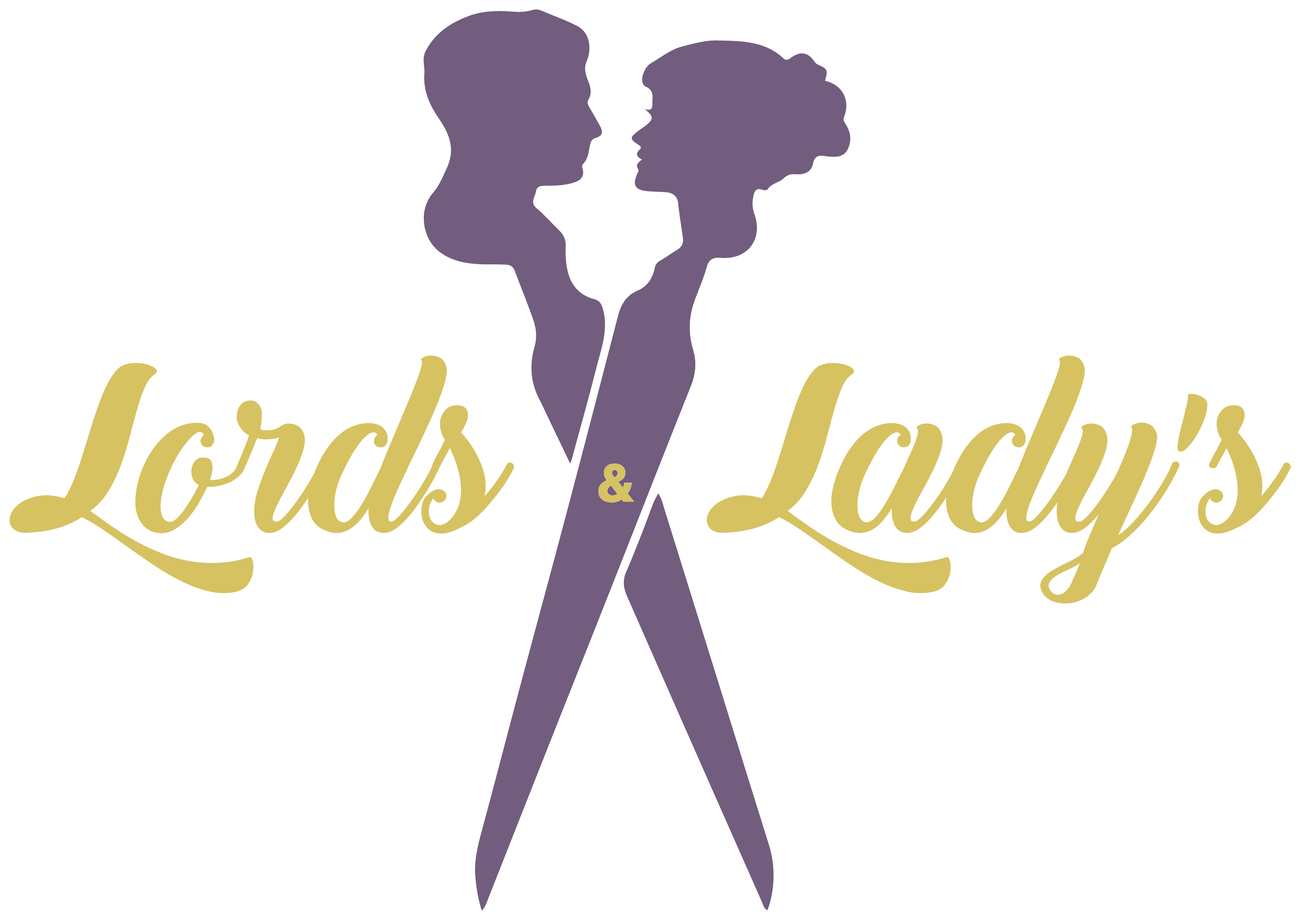
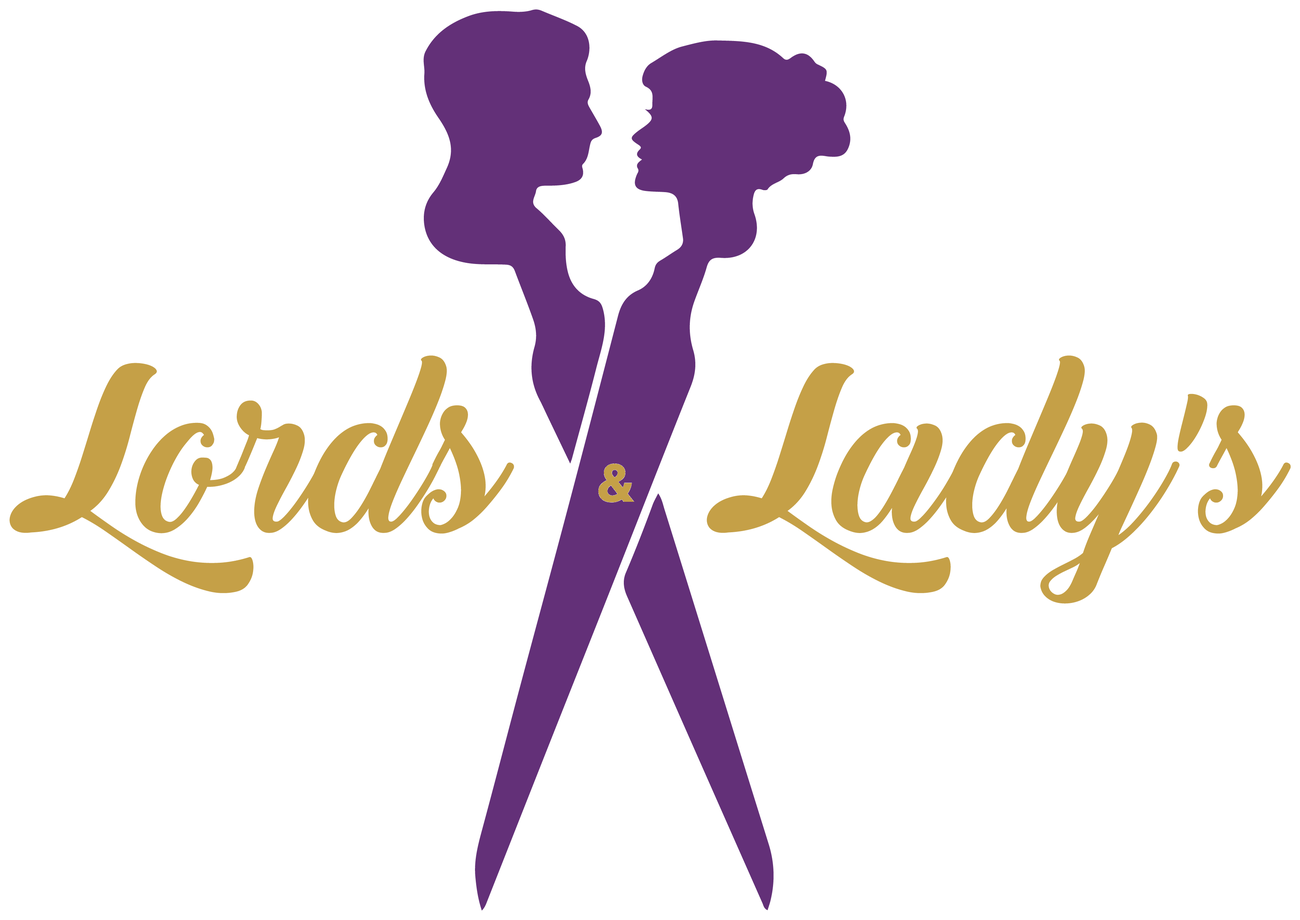
Refine Lords and Lady's gold and purple palette

Changed region(s): [[0.3125, 0.0, 1.0, 0.9915], [0.0, 0.3718, 0.4062, 0.6507]]

diff --git a/Trial350k/styles.css b/Trial350k/styles.css
@@ -1,4 +1,4 @@
-:root{--brand-yellow:#ffff00;--brand-red:#c91d0e;--brand-black:#080808;--surface:#fffdf1;--surface-soft:#fff5b8;--surface-dark:#242424;--text-primary:#181818;--text-secondary:#625e55;--border:#e9e2d0;--wine:var(--brand-red);--wine-dark:#a8180c;--cream:var(--surface);--ink:var(--text-primary);--muted:var(--text-secondary);--gold:#d0b900;--line:var(--border);--serif:Georgia,'Times New Roman',serif}*{box-sizing:border-box}html{scroll-behavior:smooth;scroll-padding-top:95px}body{margin:0;background:var(--cream);color:var(--ink);font-family:Arial,Helvetica,sans-serif;font-size:14px;line-height:1.65}body.modal-open{overflow:hidden}a{color:inherit;text-decoration:none}button,input,textarea{font:inherit}button,a,input,textarea{-webkit-tap-highlight-color:transparent}button{cursor:pointer}button{color:inherit}button:focus-visible,a:focus-visible,input:focus-visible,textarea:focus-visible{outline:2px solid var(--gold);outline-offset:5px}img{display:block;width:100%;height:100%;object-fit:cover}figure{margin:0}h1,h2,h3,h4,p{margin-top:0}h1,h2,h3{font-family:var(--serif);font-weight:400;line-height:1.06;letter-spacing:-.055em}h2{font-size:clamp(40px,4.6vw,70px);color:var(--wine);margin-bottom:30px}em{font-weight:400}h3{font-size:34px;letter-spacing:-.04em}h4{font-size:16px;font-weight:500;margin-bottom:8px}p{color:var(--muted)}.eyebrow{font-size:10px;letter-spacing:2.1px;font-weight:600;color:var(--wine);margin-bottom:28px}.header{height:103px;margin:0 5.2%;display:flex;align-items:center;justify-content:space-between;border-bottom:1px solid var(--line);gap:32px}.wordmark{color:var(--wine);font-family:var(--serif);font-size:35px;letter-spacing:4px;line-height:1;text-align:center;display:inline-flex;flex-direction:column}.wordmark span{font-family:Arial,sans-serif;font-size:8px;letter-spacing:3px;margin-top:9px}.header nav{display:flex;gap:30px;font-size:11px}.header nav a{position:relative}.header nav a:after{content:'';position:absolute;bottom:-5px;left:0;width:0;height:1px;background:var(--wine);transition:width .25s}.header nav a:hover:after{width:100%}.header-book{font-size:11px;border-bottom:1px solid var(--wine);padding:12px 0;color:var(--wine)}.header-book span{margin-left:25px}.menu-toggle{display:none}.skip{position:fixed;top:-100px;background:var(--wine);color:white;padding:15px;z-index:100}.skip:focus{top:0}.hero{padding:25px 5.2% 0}.hero-eyebrow{display:flex;justify-content:space-between;font-size:9px;letter-spacing:1.8px;color:var(--wine)}.hero-composition{position:relative;min-height:660px;margin-top:33px;display:grid;grid-template-columns:49% 47% 4%;align-items:start}.hero-copy{position:relative;z-index:2;padding-top:33px;pointer-events:none}.hero-copy a{pointer-events:auto}.hero h1{font-size:clamp(95px,11.5vw,174px);color:var(--wine);line-height:.89;margin:0 -130px 32px 0;letter-spacing:-.065em}.hero h1 em{white-space:nowrap}.hero-copy>p{font-size:14px;line-height:1.8;margin:0 0 26px}.button{display:inline-flex;align-items:center;justify-content:space-between;gap:35px;border:1px solid var(--wine);background:var(--wine);color:var(--cream);padding:17px 25px;font-size:11px;letter-spacing:.3px;transition:background .25s,transform .25s}.button:hover{background:var(--wine-dark);transform:translateY(-2px)}.button span{font-size:19px;line-height:1;transition:transform .25s}.button:hover span{transform:translate(2px,-2px)}.hero-photo{height:610px;position:relative;overflow:hidden;margin-left:12px}.hero-photo img{object-position:center 30%;animation:photo-in 1.3s ease both}.hero-photo:after{content:'';position:absolute;inset:0;background:linear-gradient(0deg,#24140c55,transparent 35%);pointer-events:none}.hero-photo figcaption{position:absolute;bottom:25px;left:28px;color:white;font-size:9px;letter-spacing:2px;z-index:1}.hero-note{display:flex;align-items:center;gap:18px;margin-top:53px;color:var(--wine);font-size:8px;letter-spacing:1.6px;line-height:1.8}.tiny-star{font-size:35px;color:var(--gold)}.hero-side{writing-mode:vertical-rl;justify-self:end;margin-top:50px;font-size:8px;letter-spacing:2px;color:var(--wine)}.hero-edition{position:absolute;bottom:16px;right:4%;font-size:8px;letter-spacing:1.3px;color:var(--muted)}.hero-bottom{display:flex;justify-content:space-between;border-top:1px solid var(--line);padding:22px 0;color:var(--muted);font-size:11px}.hero-bottom a{font-size:8px;letter-spacing:1.6px;color:var(--wine)}.hero-bottom a span{margin-left:30px;font-size:17px}.section{padding:105px 7.5%}.intro{display:grid;grid-template-columns:25% 75%;padding-top:110px;padding-bottom:115px}.intro>.eyebrow{padding-top:10px}.intro h2{font-size:clamp(35px,4.2vw,64px)}.intro-bottom{display:grid;grid-template-columns:60px 1fr auto;gap:30px;align-items:start}.intro-bottom p{max-width:470px;font-size:13px;margin:0}.star{font-size:48px;line-height:1.2;color:var(--gold)}.text-link{display:inline-flex;align-items:center;gap:22px;font-size:11px;color:var(--wine);border:0;border-bottom:1px solid var(--wine);padding:0 0 8px;background:none;align-self:start;white-space:nowrap}.text-link:hover{color:var(--muted)}.section-heading{display:flex;justify-content:space-between;align-items:end;margin-bottom:40px;gap:30px}.section-heading h2{margin-bottom:0}.section-heading>p{font-size:12px;max-width:300px}.services{background:#eee8dd;padding-top:85px;padding-bottom:55px}.category-tabs{display:flex;justify-content:space-between;border-bottom:1px solid #ccbfaf;margin:50px 0 38px;gap:18px}.category-tabs a{border:0;background:none;padding:16px 0;font-size:12px;white-space:nowrap;color:var(--muted);position:relative}.category-tabs a[aria-current="location"]{color:var(--wine)}.category-tabs a[aria-current="location"]:after{content:'';position:absolute;bottom:-1px;left:0;right:0;height:2px;background:var(--wine)}.service-category{display:grid;grid-template-columns:37% 1fr;gap:8%;animation:fade-in .5s}.service-photo{height:480px;position:relative;overflow:hidden}.service-photo img{transition:transform .8s}.service-photo:hover img{transform:scale(1.035)}.service-photo figcaption{position:absolute;bottom:20px;left:20px;color:white;background:#351a25a6;padding:6px 10px;font-size:8px;letter-spacing:1.5px}.service-list{padding-top:15px}.service-list h3{color:var(--wine);margin-bottom:15px}.service-list>p{font-size:12px;max-width:430px;margin-bottom:22px}.service-row{padding:23px 0;border-top:1px solid #ccbfaf;display:grid;grid-template-columns:1fr auto;gap:20px}.service-row p{font-size:11px;max-width:290px;margin-bottom:6px}.service-row small{font-size:9px;color:var(--muted)}.service-row>div:last-child{text-align:right}.service-row strong{font-size:12px;font-weight:500;display:block;color:var(--wine)}.service-book{display:block;font-size:9px;margin-top:16px;color:var(--wine);text-decoration:underline;text-underline-offset:5px}.service-book span{margin-left:12px}.price-note{margin:25px 0 0;font-size:10px}.story{display:grid;grid-template-columns:50% 50%;margin:115px 0 70px}.story-photo{height:760px;position:relative}.story-photo img{object-position:center}.story-photo>span{position:absolute;bottom:30px;left:40px;color:white;font-size:9px;letter-spacing:2px}.story-copy{padding:35px 15% 0 13%}.story-copy h2{font-size:clamp(40px,4.3vw,65px)}.story-copy>p:not(.eyebrow){font-size:12px}.values{margin:32px 0}.values>div{display:flex;gap:25px;border-top:1px solid var(--line);padding:17px 0 0}.values>div>span{font-size:9px;color:var(--gold)}.values p{font-size:10px}.values strong{display:block;font-size:12px;color:var(--wine);font-weight:500;margin-bottom:4px}.gallery{padding-top:55px}.gallery-layout{display:grid;grid-template-columns:1.2fr .8fr 1fr;gap:40px 35px;align-items:start;margin-top:60px}.gallery-item{padding:0;border:0;background:transparent;text-align:left;min-width:0}.gallery-item>div{position:relative;overflow:hidden;height:310px}.gallery-item img{transition:transform .7s,filter .7s}.gallery-item:hover img{transform:scale(1.045);filter:saturate(.85)}.gallery-item-0{grid-column:1/3;grid-row:1/3}.gallery-item-0>div{height:715px}.gallery-item-1{padding-top:65px}.gallery-item-2>div{height:265px}.gallery-item-3{padding-top:30px}.gallery-item-3>div{height:300px}.gallery-item-4>div{height:390px}.gallery-item-5{padding-top:60px}.gallery-item-5>div{height:280px}.gallery-caption{display:flex;justify-content:space-between;gap:10px;margin-top:12px;font-size:11px;flex-wrap:wrap}.gallery-caption small{font-size:8px;color:var(--muted);text-transform:uppercase;letter-spacing:1px}.gallery-expand{position:absolute;right:14px;bottom:14px;background:var(--cream);color:var(--wine);width:34px;height:34px;display:grid;place-items:center;opacity:0;transition:opacity .2s}.gallery-item:hover .gallery-expand,.gallery-item:focus-visible .gallery-expand{opacity:1}.testimonials{border-top:1px solid var(--line);text-align:center;padding-top:65px;padding-bottom:65px}.quote-mark{font-family:var(--serif);color:var(--gold);font-size:80px;height:70px;line-height:1}blockquote{font-family:var(--serif);font-size:clamp(26px,3vw,42px);line-height:1.3;letter-spacing:-1px;color:var(--wine);max-width:850px;margin:10px auto 25px}#quote>p{font-size:11px;color:var(--wine)}#quote>p span{display:block;font-size:9px;color:var(--muted);margin-top:4px}.quote-controls{display:flex;align-items:center;justify-content:center;gap:24px;font-size:9px;margin-top:24px}.quote-controls button{border:1px solid var(--line);border-radius:50%;width:36px;height:36px;background:none}.quote-controls button:hover{background:var(--wine);color:white}.invitation{display:grid;grid-template-columns:65% 35%;background:var(--wine);color:var(--cream);min-height:530px}.invitation>div{padding:75px 12%}.invitation h2{color:var(--cream);font-size:clamp(55px,6vw,88px)}.invitation .eyebrow{color:#d1bd9c}.invitation .button{background:var(--cream);color:var(--wine);margin-bottom:24px}.invitation p:last-child{color:#d9c9c9;font-size:11px}.invitation-photo{max-height:590px}.contact{display:grid;grid-template-columns:60% 40%;gap:30px}.contact h2{font-size:50px}.contact p{font-size:12px}.contact-location{color:var(--wine);font-size:16px!important}.contact small{display:block;font-size:9px;color:var(--muted);max-width:340px;margin-top:18px}.contact-details{padding-top:38px}.contact-details>div{margin-bottom:36px}.contact-details .eyebrow{margin-bottom:12px}.contact-details .text-link{display:flex;width:max-content;margin-top:14px}footer{margin:0 5.2%;border-top:1px solid var(--line);padding:42px 0 25px;display:grid;grid-template-columns:1fr 2fr 1fr;align-items:center;gap:35px}footer .wordmark{justify-self:start;font-size:29px}footer>p{font-size:11px;margin:0}footer>div{display:flex;gap:20px;font-size:10px}footer small{font-size:8px;color:var(--muted)}footer small:last-child{grid-column:2/4;text-align:right}.will-reveal{opacity:0;transform:translateY(24px);transition:opacity .8s,transform .8s}.will-reveal.visible{opacity:1;transform:none}@keyframes photo-in{from{clip-path:inset(8% 0 0 0);transform:scale(1.035)}to{clip-path:inset(0);transform:scale(1)}}@keyframes fade-in{from{opacity:.5}to{opacity:1}}dialog{border:0;background:#23151af5;color:var(--cream);max-width:100vw;max-height:100dvh;width:100vw;height:100dvh;padding:65px 70px}dialog::backdrop{background:#23151a}dialog[open]{display:flex;align-items:center;justify-content:center}dialog figure{height:85%;max-width:85%;display:flex;flex-direction:column;align-items:center}dialog img{min-height:0;object-fit:contain}dialog figcaption{font-size:11px;padding-top:18px}dialog button{border:0;background:none;color:white;font-size:25px;padding:20px}.lightbox-close{position:absolute;right:25px;top:10px;font-size:13px}.booking-page{padding:65px 7.5% 90px;display:grid;grid-template-columns:34% 1fr;gap:9%;min-height:850px}.booking-heading>.text-link{margin-bottom:38px}.booking-heading h1{font-size:clamp(45px,5vw,70px);color:var(--wine);margin-bottom:22px}.booking-heading>p{font-size:12px}.booking-heading .eyebrow{margin-bottom:20px;font-size:8px}.booking-heading img{height:180px;margin-top:25px}.booking-summary{border-top:1px solid var(--line);margin-top:35px;padding-top:25px}.booking-summary strong{font-family:var(--serif);font-size:22px;font-weight:400;color:var(--wine)}.booking-summary p{font-size:11px}.booking-content{padding-top:5px;scroll-margin-top:20px}.progress{list-style:none;display:flex;justify-content:space-between;padding:0;margin:0 0 55px;gap:8px}.progress li{text-align:center;flex:1;color:var(--muted);position:relative}.progress li:after{content:'';position:absolute;top:15px;left:calc(50% + 19px);width:calc(100% - 28px);height:1px;background:var(--line)}.progress li:last-child:after{display:none}.progress li>span{width:30px;height:30px;border:1px solid var(--line);border-radius:50%;display:grid;place-items:center;margin:0 auto 8px;font-size:10px}.progress small{font-size:8px}.progress .current{color:var(--wine)}.progress .current>span,.progress .complete>span{background:var(--wine);border-color:var(--wine);color:var(--cream)}.step-content:focus{outline:0}.step-content h2{font-size:36px;letter-spacing:-1.5px;margin-bottom:20px}.step-content .eyebrow{font-size:9px;margin-bottom:15px}.step-content form>p{font-size:12px}.booking-options{display:grid;grid-template-columns:1fr 1fr;gap:12px;margin:30px 0}.booking-options label{display:flex;align-items:center;gap:12px;border:1px solid var(--line);padding:20px 16px;cursor:pointer;font-size:12px}.booking-options label>span:last-child{margin-left:auto}.booking-options label:has(input:checked),.time-options label:has(input:checked){background:#ebe1df;border-color:var(--wine);color:var(--wine)}input[type=radio],input[type=checkbox]{accent-color:var(--wine);flex-shrink:0}.service-options{grid-template-columns:1fr}.service-options strong{font-weight:500;display:block}.service-options small{display:block;color:var(--muted);font-size:10px;margin-top:6px}.service-options label>span:last-child{font-size:10px;min-width:85px;text-align:right}.field{display:block;font-size:11px;color:var(--wine);margin:22px 0}.field>span{color:var(--muted)}.field input,.field textarea{display:block;width:100%;border:1px solid var(--line);border-radius:0;background:transparent;color:var(--ink);padding:15px;margin-top:7px;min-height:50px}.field textarea{resize:vertical}.field input[type=date]{max-width:350px}.field-hint{margin-top:30px;line-height:2}.time-options{display:grid;grid-template-columns:repeat(4,1fr);gap:12px;margin:30px 0}.time-options label{border:1px solid var(--line);padding:14px 10px;display:flex;align-items:center;gap:9px;font-size:12px;cursor:pointer}.form-actions{display:flex;justify-content:space-between;align-items:center;border-top:1px solid var(--line);padding-top:25px;margin-top:30px}.form-actions .text-link{align-self:center}.booking-disclaimer{font-size:9px;line-height:1.8;margin-top:32px}.form-error{color:#a21c32!important}.review>div{border-top:1px solid var(--line);padding:22px 45px 16px 0;position:relative}.review>div>span{font-size:8px;letter-spacing:1.5px;display:block;color:var(--muted);margin-bottom:8px}.review strong{display:block;font-size:14px;font-weight:500}.review p{font-size:12px;margin:8px 0;overflow-wrap:anywhere}.review button{position:absolute;right:0;top:22px;border:0;border-bottom:1px solid var(--wine);background:none;font-size:10px;color:var(--wine)}.review-notes{white-space:pre-wrap}.consent{display:flex;align-items:start;gap:10px;font-size:11px;margin-top:25px}.confirmation-symbol{font-size:35px;color:var(--wine);margin-bottom:15px}.confirmation-actions{display:flex;align-items:start;flex-direction:column;gap:25px;margin-top:30px}
+:root{--brand-yellow:var(--brand-gold);--brand-red:var(--brand-purple);--brand-black:var(--brand-charcoal);--surface:var(--surface-light);--surface-soft:#efe7d6;--surface-dark:var(--brand-charcoal);--text-primary:var(--text-dark);--text-secondary:#625b62;--border:#e5ddd0;--wine:var(--brand-purple);--wine-dark:var(--brand-purple-dark);--cream:var(--surface-light);--ink:var(--text-dark);--muted:var(--text-secondary);--gold:var(--brand-gold);--line:var(--border);--serif:Georgia,'Times New Roman',serif}*{box-sizing:border-box}html{scroll-behavior:smooth;scroll-padding-top:95px}body{margin:0;background:var(--cream);color:var(--ink);font-family:Arial,Helvetica,sans-serif;font-size:14px;line-height:1.65}body.modal-open{overflow:hidden}a{color:inherit;text-decoration:none}button,input,textarea{font:inherit}button,a,input,textarea{-webkit-tap-highlight-color:transparent}button{cursor:pointer}button{color:inherit}button:focus-visible,a:focus-visible,input:focus-visible,textarea:focus-visible{outline:2px solid var(--gold);outline-offset:5px}img{display:block;width:100%;height:100%;object-fit:cover}figure{margin:0}h1,h2,h3,h4,p{margin-top:0}h1,h2,h3{font-family:var(--serif);font-weight:400;line-height:1.06;letter-spacing:-.055em}h2{font-size:clamp(40px,4.6vw,70px);color:var(--wine);margin-bottom:30px}em{font-weight:400}h3{font-size:34px;letter-spacing:-.04em}h4{font-size:16px;font-weight:500;margin-bottom:8px}p{color:var(--muted)}.eyebrow{font-size:10px;letter-spacing:2.1px;font-weight:600;color:var(--wine);margin-bottom:28px}.header{height:103px;margin:0 5.2%;display:flex;align-items:center;justify-content:space-between;border-bottom:1px solid var(--line);gap:32px}.wordmark{color:var(--wine);font-family:var(--serif);font-size:35px;letter-spacing:4px;line-height:1;text-align:center;display:inline-flex;flex-direction:column}.wordmark span{font-family:Arial,sans-serif;font-size:8px;letter-spacing:3px;margin-top:9px}.header nav{display:flex;gap:30px;font-size:11px}.header nav a{position:relative}.header nav a:after{content:'';position:absolute;bottom:-5px;left:0;width:0;height:1px;background:var(--wine);transition:width .25s}.header nav a:hover:after{width:100%}.header-book{font-size:11px;border-bottom:1px solid var(--wine);padding:12px 0;color:var(--wine)}.header-book span{margin-left:25px}.menu-toggle{display:none}.skip{position:fixed;top:-100px;background:var(--wine);color:white;padding:15px;z-index:100}.skip:focus{top:0}.hero{padding:25px 5.2% 0}.hero-eyebrow{display:flex;justify-content:space-between;font-size:9px;letter-spacing:1.8px;color:var(--wine)}.hero-composition{position:relative;min-height:660px;margin-top:33px;display:grid;grid-template-columns:49% 47% 4%;align-items:start}.hero-copy{position:relative;z-index:2;padding-top:33px;pointer-events:none}.hero-copy a{pointer-events:auto}.hero h1{font-size:clamp(95px,11.5vw,174px);color:var(--wine);line-height:.89;margin:0 -130px 32px 0;letter-spacing:-.065em}.hero h1 em{white-space:nowrap}.hero-copy>p{font-size:14px;line-height:1.8;margin:0 0 26px}.button{display:inline-flex;align-items:center;justify-content:space-between;gap:35px;border:1px solid var(--wine);background:var(--wine);color:var(--cream);padding:17px 25px;font-size:11px;letter-spacing:.3px;transition:background .25s,transform .25s}.button:hover{background:var(--wine-dark);transform:translateY(-2px)}.button span{font-size:19px;line-height:1;transition:transform .25s}.button:hover span{transform:translate(2px,-2px)}.hero-photo{height:610px;position:relative;overflow:hidden;margin-left:12px}.hero-photo img{object-position:center 30%;animation:photo-in 1.3s ease both}.hero-photo:after{content:'';position:absolute;inset:0;background:linear-gradient(0deg,#24140c55,transparent 35%);pointer-events:none}.hero-photo figcaption{position:absolute;bottom:25px;left:28px;color:white;font-size:9px;letter-spacing:2px;z-index:1}.hero-note{display:flex;align-items:center;gap:18px;margin-top:53px;color:var(--wine);font-size:8px;letter-spacing:1.6px;line-height:1.8}.tiny-star{font-size:35px;color:var(--gold)}.hero-side{writing-mode:vertical-rl;justify-self:end;margin-top:50px;font-size:8px;letter-spacing:2px;color:var(--wine)}.hero-edition{position:absolute;bottom:16px;right:4%;font-size:8px;letter-spacing:1.3px;color:var(--muted)}.hero-bottom{display:flex;justify-content:space-between;border-top:1px solid var(--line);padding:22px 0;color:var(--muted);font-size:11px}.hero-bottom a{font-size:8px;letter-spacing:1.6px;color:var(--wine)}.hero-bottom a span{margin-left:30px;font-size:17px}.section{padding:105px 7.5%}.intro{display:grid;grid-template-columns:25% 75%;padding-top:110px;padding-bottom:115px}.intro>.eyebrow{padding-top:10px}.intro h2{font-size:clamp(35px,4.2vw,64px)}.intro-bottom{display:grid;grid-template-columns:60px 1fr auto;gap:30px;align-items:start}.intro-bottom p{max-width:470px;font-size:13px;margin:0}.star{font-size:48px;line-height:1.2;color:var(--gold)}.text-link{display:inline-flex;align-items:center;gap:22px;font-size:11px;color:var(--wine);border:0;border-bottom:1px solid var(--wine);padding:0 0 8px;background:none;align-self:start;white-space:nowrap}.text-link:hover{color:var(--muted)}.section-heading{display:flex;justify-content:space-between;align-items:end;margin-bottom:40px;gap:30px}.section-heading h2{margin-bottom:0}.section-heading>p{font-size:12px;max-width:300px}.services{background:#eee8dd;padding-top:85px;padding-bottom:55px}.category-tabs{display:flex;justify-content:space-between;border-bottom:1px solid #ccbfaf;margin:50px 0 38px;gap:18px}.category-tabs a{border:0;background:none;padding:16px 0;font-size:12px;white-space:nowrap;color:var(--muted);position:relative}.category-tabs a[aria-current="location"]{color:var(--wine)}.category-tabs a[aria-current="location"]:after{content:'';position:absolute;bottom:-1px;left:0;right:0;height:2px;background:var(--wine)}.service-category{display:grid;grid-template-columns:37% 1fr;gap:8%;animation:fade-in .5s}.service-photo{height:480px;position:relative;overflow:hidden}.service-photo img{transition:transform .8s}.service-photo:hover img{transform:scale(1.035)}.service-photo figcaption{position:absolute;bottom:20px;left:20px;color:white;background:#351a25a6;padding:6px 10px;font-size:8px;letter-spacing:1.5px}.service-list{padding-top:15px}.service-list h3{color:var(--wine);margin-bottom:15px}.service-list>p{font-size:12px;max-width:430px;margin-bottom:22px}.service-row{padding:23px 0;border-top:1px solid #ccbfaf;display:grid;grid-template-columns:1fr auto;gap:20px}.service-row p{font-size:11px;max-width:290px;margin-bottom:6px}.service-row small{font-size:9px;color:var(--muted)}.service-row>div:last-child{text-align:right}.service-row strong{font-size:12px;font-weight:500;display:block;color:var(--wine)}.service-book{display:block;font-size:9px;margin-top:16px;color:var(--wine);text-decoration:underline;text-underline-offset:5px}.service-book span{margin-left:12px}.price-note{margin:25px 0 0;font-size:10px}.story{display:grid;grid-template-columns:50% 50%;margin:115px 0 70px}.story-photo{height:760px;position:relative}.story-photo img{object-position:center}.story-photo>span{position:absolute;bottom:30px;left:40px;color:white;font-size:9px;letter-spacing:2px}.story-copy{padding:35px 15% 0 13%}.story-copy h2{font-size:clamp(40px,4.3vw,65px)}.story-copy>p:not(.eyebrow){font-size:12px}.values{margin:32px 0}.values>div{display:flex;gap:25px;border-top:1px solid var(--line);padding:17px 0 0}.values>div>span{font-size:9px;color:var(--gold)}.values p{font-size:10px}.values strong{display:block;font-size:12px;color:var(--wine);font-weight:500;margin-bottom:4px}.gallery{padding-top:55px}.gallery-layout{display:grid;grid-template-columns:1.2fr .8fr 1fr;gap:40px 35px;align-items:start;margin-top:60px}.gallery-item{padding:0;border:0;background:transparent;text-align:left;min-width:0}.gallery-item>div{position:relative;overflow:hidden;height:310px}.gallery-item img{transition:transform .7s,filter .7s}.gallery-item:hover img{transform:scale(1.045);filter:saturate(.85)}.gallery-item-0{grid-column:1/3;grid-row:1/3}.gallery-item-0>div{height:715px}.gallery-item-1{padding-top:65px}.gallery-item-2>div{height:265px}.gallery-item-3{padding-top:30px}.gallery-item-3>div{height:300px}.gallery-item-4>div{height:390px}.gallery-item-5{padding-top:60px}.gallery-item-5>div{height:280px}.gallery-caption{display:flex;justify-content:space-between;gap:10px;margin-top:12px;font-size:11px;flex-wrap:wrap}.gallery-caption small{font-size:8px;color:var(--muted);text-transform:uppercase;letter-spacing:1px}.gallery-expand{position:absolute;right:14px;bottom:14px;background:var(--cream);color:var(--wine);width:34px;height:34px;display:grid;place-items:center;opacity:0;transition:opacity .2s}.gallery-item:hover .gallery-expand,.gallery-item:focus-visible .gallery-expand{opacity:1}.testimonials{border-top:1px solid var(--line);text-align:center;padding-top:65px;padding-bottom:65px}.quote-mark{font-family:var(--serif);color:var(--gold);font-size:80px;height:70px;line-height:1}blockquote{font-family:var(--serif);font-size:clamp(26px,3vw,42px);line-height:1.3;letter-spacing:-1px;color:var(--wine);max-width:850px;margin:10px auto 25px}#quote>p{font-size:11px;color:var(--wine)}#quote>p span{display:block;font-size:9px;color:var(--muted);margin-top:4px}.quote-controls{display:flex;align-items:center;justify-content:center;gap:24px;font-size:9px;margin-top:24px}.quote-controls button{border:1px solid var(--line);border-radius:50%;width:36px;height:36px;background:none}.quote-controls button:hover{background:var(--wine);color:white}.invitation{display:grid;grid-template-columns:65% 35%;background:var(--wine);color:var(--cream);min-height:530px}.invitation>div{padding:75px 12%}.invitation h2{color:var(--cream);font-size:clamp(55px,6vw,88px)}.invitation .eyebrow{color:#d1bd9c}.invitation .button{background:var(--cream);color:var(--wine);margin-bottom:24px}.invitation p:last-child{color:#d9c9c9;font-size:11px}.invitation-photo{max-height:590px}.contact{display:grid;grid-template-columns:60% 40%;gap:30px}.contact h2{font-size:50px}.contact p{font-size:12px}.contact-location{color:var(--wine);font-size:16px!important}.contact small{display:block;font-size:9px;color:var(--muted);max-width:340px;margin-top:18px}.contact-details{padding-top:38px}.contact-details>div{margin-bottom:36px}.contact-details .eyebrow{margin-bottom:12px}.contact-details .text-link{display:flex;width:max-content;margin-top:14px}footer{margin:0 5.2%;border-top:1px solid var(--line);padding:42px 0 25px;display:grid;grid-template-columns:1fr 2fr 1fr;align-items:center;gap:35px}footer .wordmark{justify-self:start;font-size:29px}footer>p{font-size:11px;margin:0}footer>div{display:flex;gap:20px;font-size:10px}footer small{font-size:8px;color:var(--muted)}footer small:last-child{grid-column:2/4;text-align:right}.will-reveal{opacity:0;transform:translateY(24px);transition:opacity .8s,transform .8s}.will-reveal.visible{opacity:1;transform:none}@keyframes photo-in{from{clip-path:inset(8% 0 0 0);transform:scale(1.035)}to{clip-path:inset(0);transform:scale(1)}}@keyframes fade-in{from{opacity:.5}to{opacity:1}}dialog{border:0;background:rgba(36,34,40,.97);color:var(--cream);max-width:100vw;max-height:100dvh;width:100vw;height:100dvh;padding:65px 70px}dialog::backdrop{background:#242228}dialog[open]{display:flex;align-items:center;justify-content:center}dialog figure{height:85%;max-width:85%;display:flex;flex-direction:column;align-items:center}dialog img{min-height:0;object-fit:contain}dialog figcaption{font-size:11px;padding-top:18px}dialog button{border:0;background:none;color:white;font-size:25px;padding:20px}.lightbox-close{position:absolute;right:25px;top:10px;font-size:13px}.booking-page{padding:65px 7.5% 90px;display:grid;grid-template-columns:34% 1fr;gap:9%;min-height:850px}.booking-heading>.text-link{margin-bottom:38px}.booking-heading h1{font-size:clamp(45px,5vw,70px);color:var(--wine);margin-bottom:22px}.booking-heading>p{font-size:12px}.booking-heading .eyebrow{margin-bottom:20px;font-size:8px}.booking-heading img{height:180px;margin-top:25px}.booking-summary{border-top:1px solid var(--line);margin-top:35px;padding-top:25px}.booking-summary strong{font-family:var(--serif);font-size:22px;font-weight:400;color:var(--wine)}.booking-summary p{font-size:11px}.booking-content{padding-top:5px;scroll-margin-top:20px}.progress{list-style:none;display:flex;justify-content:space-between;padding:0;margin:0 0 55px;gap:8px}.progress li{text-align:center;flex:1;color:var(--muted);position:relative}.progress li:after{content:'';position:absolute;top:15px;left:calc(50% + 19px);width:calc(100% - 28px);height:1px;background:var(--line)}.progress li:last-child:after{display:none}.progress li>span{width:30px;height:30px;border:1px solid var(--line);border-radius:50%;display:grid;place-items:center;margin:0 auto 8px;font-size:10px}.progress small{font-size:8px}.progress .current{color:var(--wine)}.progress .current>span,.progress .complete>span{background:var(--wine);border-color:var(--wine);color:var(--cream)}.step-content:focus{outline:0}.step-content h2{font-size:36px;letter-spacing:-1.5px;margin-bottom:20px}.step-content .eyebrow{font-size:9px;margin-bottom:15px}.step-content form>p{font-size:12px}.booking-options{display:grid;grid-template-columns:1fr 1fr;gap:12px;margin:30px 0}.booking-options label{display:flex;align-items:center;gap:12px;border:1px solid var(--line);padding:20px 16px;cursor:pointer;font-size:12px}.booking-options label>span:last-child{margin-left:auto}.booking-options label:has(input:checked),.time-options label:has(input:checked){background:var(--surface-soft);border-color:var(--wine);color:var(--wine)}input[type=radio],input[type=checkbox]{accent-color:var(--wine);flex-shrink:0}.service-options{grid-template-columns:1fr}.service-options strong{font-weight:500;display:block}.service-options small{display:block;color:var(--muted);font-size:10px;margin-top:6px}.service-options label>span:last-child{font-size:10px;min-width:85px;text-align:right}.field{display:block;font-size:11px;color:var(--wine);margin:22px 0}.field>span{color:var(--muted)}.field input,.field textarea{display:block;width:100%;border:1px solid var(--line);border-radius:0;background:transparent;color:var(--ink);padding:15px;margin-top:7px;min-height:50px}.field textarea{resize:vertical}.field input[type=date]{max-width:350px}.field-hint{margin-top:30px;line-height:2}.time-options{display:grid;grid-template-columns:repeat(4,1fr);gap:12px;margin:30px 0}.time-options label{border:1px solid var(--line);padding:14px 10px;display:flex;align-items:center;gap:9px;font-size:12px;cursor:pointer}.form-actions{display:flex;justify-content:space-between;align-items:center;border-top:1px solid var(--line);padding-top:25px;margin-top:30px}.form-actions .text-link{align-self:center}.booking-disclaimer{font-size:9px;line-height:1.8;margin-top:32px}.form-error{color:#a21c32!important}.review>div{border-top:1px solid var(--line);padding:22px 45px 16px 0;position:relative}.review>div>span{font-size:8px;letter-spacing:1.5px;display:block;color:var(--muted);margin-bottom:8px}.review strong{display:block;font-size:14px;font-weight:500}.review p{font-size:12px;margin:8px 0;overflow-wrap:anywhere}.review button{position:absolute;right:0;top:22px;border:0;border-bottom:1px solid var(--wine);background:none;font-size:10px;color:var(--wine)}.review-notes{white-space:pre-wrap}.consent{display:flex;align-items:start;gap:10px;font-size:11px;margin-top:25px}.confirmation-symbol{font-size:35px;color:var(--wine);margin-bottom:15px}.confirmation-actions{display:flex;align-items:start;flex-direction:column;gap:25px;margin-top:30px}
 @media(min-width:1600px){body{max-width:1800px;margin:auto}.hero-composition{min-height:760px}.hero-photo{height:710px}}
 @media(max-width:1050px){.header nav{gap:18px}.hero-composition{min-height:580px}.hero-photo{height:540px}.hero h1{font-size:12vw}.hero-note{margin-top:35px}.intro{grid-template-columns:22% 78%}.intro-bottom{grid-template-columns:40px 1fr;gap:20px}.intro-bottom .text-link{grid-column:2}.story-copy{padding:20px 12% 0 10%}.story-photo{height:740px}.gallery-layout{gap:25px}.gallery-item-0>div{height:685px}.booking-page{gap:6%;grid-template-columns:31% 1fr}}
 @media(max-width:760px){html{scroll-padding-top:25px}.header{height:83px;margin:0 6%;gap:20px;position:relative;z-index:10}.wordmark{font-size:28px}.wordmark span{font-size:6px;letter-spacing:2.5px}.header-book{font-size:9px;margin-left:auto}.header-book span{margin-left:12px}.menu-toggle{display:flex;align-items:center;gap:6px;background:none;border:0;padding:10px 0;color:var(--wine);font-size:10px}.menu-toggle span{font-size:20px}.header nav{display:none;position:absolute;top:82px;left:-6.82%;right:-6.82%;padding:30px 7%;background:var(--cream);box-shadow:0 15px 20px #302a2910}.header.menu-open nav{display:flex;flex-direction:column;gap:24px;font-size:16px}.hero{padding:21px 6% 0}.hero-eyebrow{font-size:7px;letter-spacing:1.1px}.hero-eyebrow>span:last-child{font-size:6px}.hero-composition{display:block;margin-top:28px;min-height:0;padding-bottom:30px}.hero-copy{padding-top:0}.hero h1{font-size:clamp(76px,16.6vw,125px);line-height:.93;margin:0 0 25px;position:relative;z-index:2}.hero-copy>p{font-size:12px;line-height:1.7;width:50%;margin-bottom:20px}.hero-copy .button{font-size:10px;padding:15px 17px;gap:18px}.hero-photo{height:360px;width:67%;margin:30px 0 0 auto;position:relative}.hero-photo figcaption{font-size:7px;left:16px;bottom:18px}.hero-note{position:absolute;top:355px;left:0;width:27%;display:block;font-size:6px;letter-spacing:1px}.hero-note .tiny-star{display:block;font-size:35px;margin-bottom:15px}.hero-side{position:absolute;left:0;top:510px;font-size:6px;letter-spacing:1.5px;writing-mode:vertical-rl;margin:0}.hero-edition{bottom:10px;right:0;font-size:6px}.hero-bottom{font-size:9px;padding:18px 0}.hero-bottom a{font-size:7px;letter-spacing:1px}.hero-bottom a span{margin-left:10px}.section{padding:65px 7%}.intro{display:block}.intro>.eyebrow{margin-bottom:25px}.intro h2{font-size:38px}.intro-bottom{grid-template-columns:35px 1fr}.intro-bottom p{font-size:12px}.star{font-size:35px}.section-heading{display:block;margin-bottom:25px}.section-heading h2{font-size:45px}.section-heading>p{margin:25px 0 0;font-size:12px}.eyebrow{font-size:8px;letter-spacing:1.8px;margin-bottom:22px}.category-tabs{overflow:auto;justify-content:flex-start;gap:25px;margin:25px -8% 25px;padding:0 8%;scrollbar-width:thin}.category-tabs a{font-size:11px;padding:14px 0}.service-category{grid-template-columns:1fr;gap:25px}.service-photo{height:300px;width:100%}.service-photo img{object-position:center 35%}.service-list{padding:0}.service-list h3{font-size:30px}.service-row{padding:21px 0;gap:16px;grid-template-columns:1fr 112px}.service-row h4{font-size:14px}.service-row p{font-size:10px}.service-row strong{font-size:11px}.service-book{font-size:8px}.service-book span{margin-left:6px}.price-note{font-size:9px}.story{display:flex;flex-direction:column;margin:60px 0 0}.story-photo{height:420px;width:89%}.story-copy{padding:40px 7% 0}.story-copy h2{font-size:46px}.values{margin:30px 0}.gallery-layout{grid-template-columns:1fr 1fr;gap:25px 16px;margin-top:35px}.gallery-item-0{grid-column:1/3;grid-row:auto}.gallery-item-0>div{height:440px}.gallery-item-1{padding-top:0}.gallery-item-1>div{height:220px}.gallery-item-2{padding-top:40px}.gallery-item-2>div{height:250px}.gallery-item-3{padding-top:0}.gallery-item-3>div{height:250px}.gallery-item-4{padding-top:40px}.gallery-item-4>div{height:220px}.gallery-item-5{grid-column:1/3;padding-top:0}.gallery-item-5>div{height:260px}.gallery-caption{font-size:10px;gap:3px;flex-direction:column}.gallery-caption small{font-size:7px}.gallery-expand{opacity:1;width:27px;height:27px;font-size:12px}.testimonials{padding-top:45px;padding-bottom:45px}blockquote{font-size:29px}.testimonials .eyebrow{font-size:7px}.invitation{grid-template-columns:1fr;min-height:0}.invitation>div{padding:60px 7%}.invitation h2{font-size:63px}.invitation-photo{height:230px;object-position:center 60%}.contact{display:block}.contact h2{font-size:43px}.contact-details{padding-top:40px}.contact small{max-width:none}footer{margin:0 7%;grid-template-columns:1fr 1fr;gap:25px;padding-top:35px}footer>p{font-size:10px}footer>div{grid-column:1/3;gap:25px}footer small,footer small:last-child{grid-column:1/3;text-align:left;font-size:7px}footer small:last-child{margin-top:-15px}dialog{padding:60px 8px}dialog figure{max-width:78%;height:75%}dialog button{padding:8px;font-size:21px}.lightbox-close{right:15px;top:18px;font-size:12px}.booking-page{display:block;padding:30px 7% 60px}.booking-heading>.text-link{margin-bottom:30px}.booking-heading h1{font-size:50px}.booking-heading>img{display:none}.booking-heading>p:not(.eyebrow){font-size:11px}.booking-summary{margin-top:24px;padding-top:17px;margin-bottom:32px}.booking-summary .eyebrow{margin-bottom:8px}.booking-summary strong{font-size:21px}.booking-content{padding-top:10px}.progress{margin-bottom:35px;gap:3px}.progress small{font-size:6px}.progress li>span{width:26px;height:26px;font-size:8px}.progress li:after{top:13px;left:calc(50% + 16px);width:calc(100% - 27px)}.step-content h2{font-size:32px}.booking-options{gap:10px}.booking-options label{padding:16px 12px;gap:8px;font-size:11px}.booking-options label>span:last-child{font-size:11px}.service-options label{padding:18px 10px}.service-options label>span:last-child{font-size:9px;min-width:77px}.service-options small{font-size:9px}.time-options{grid-template-columns:repeat(3,1fr)}.time-options label{font-size:11px}.form-actions .button{padding:15px 19px;gap:20px}}
@@ -42,7 +42,7 @@
  .service-category .service-book{display:flex;align-items:center;justify-content:flex-end;min-height:44px;width:100%;margin-top:4px}
 }
 
-.brand-logo{display:block;flex:0 0 143px;width:143px;height:103px;background:transparent;overflow:visible}.brand-logo img{width:100%;height:100%;object-fit:cover;object-position:center}.footer-logo{width:190px;height:136px;flex-basis:190px}.header-book{color:var(--brand-black);border-color:var(--brand-red)}.header-book:hover{color:var(--brand-red)}.button{background:var(--brand-red);border-color:var(--brand-red);color:#fff}.button:hover{background:#a8180c}.hero h1{color:var(--brand-black);font-size:clamp(76px,9.4vw,142px)}.hero-eyebrow,.hero-bottom a,.text-link{color:var(--brand-red)}.tiny-star,.star,.values>div>span{color:#b5a300}.services{background:#fff8d4}.category-tabs a[aria-current=location]:after{background:var(--brand-yellow);height:4px}.category-tabs a[aria-current=location]{color:var(--brand-black)}.service-row strong{color:var(--brand-black)}.invitation{background:var(--brand-black)}.invitation .button{background:var(--brand-yellow);border-color:var(--brand-yellow);color:var(--brand-black)}.invitation .eyebrow{color:var(--brand-yellow)}.contact-location{color:var(--brand-red)}button:focus-visible,a:focus-visible,input:focus-visible,textarea:focus-visible{outline-color:var(--brand-red)}.header nav a:after{background:var(--brand-red)}.booking-options label:has(input:checked),.time-options label:has(input:checked){background:var(--surface-soft);border-color:var(--brand-red);color:var(--brand-black)}input[type=radio],input[type=checkbox]{accent-color:var(--brand-red)}.progress .current>span,.progress .complete>span{background:var(--brand-red);border-color:var(--brand-red)}.confirmation-symbol{color:var(--brand-red)}@media(max-width:760px){.header{gap:8px}.brand-logo{flex-basis:110px;width:110px;height:79px}.footer-logo{width:150px;height:106px}.header-book{font-size:8px;white-space:nowrap}.header-book span{margin-left:4px}.menu-toggle{font-size:9px}.hero h1{font-size:clamp(48px,14vw,74px);letter-spacing:-.06em}.hero-copy>p{width:78%}}@media(max-width:360px){.brand-logo{flex-basis:94px;width:94px;height:67px}.header{gap:5px}.header-book{font-size:7px}.menu-toggle{gap:2px;padding:8px 0}}@media(prefers-reduced-motion:reduce){*,*::before,*::after{scroll-behavior:auto!important;animation-duration:.01ms!important;transition-duration:.01ms!important}}
+.brand-logo{display:block;flex:0 0 143px;width:143px;height:103px;background:transparent;overflow:visible}.brand-logo img{width:100%;height:100%;object-fit:cover;object-position:center}.footer-logo{width:190px;height:136px;flex-basis:190px}.header-book{color:var(--brand-black);border-color:var(--brand-red)}.header-book:hover{color:var(--brand-red)}.button{background:var(--brand-red);border-color:var(--brand-red);color:#fff}.button:hover{background:var(--brand-purple-dark)}.hero h1{color:var(--brand-black);font-size:clamp(76px,9.4vw,142px)}.hero-eyebrow,.hero-bottom a,.text-link{color:var(--brand-red)}.tiny-star,.star,.values>div>span{color:var(--brand-gold)}.services{background:var(--surface-light)}.category-tabs a[aria-current=location]:after{background:var(--brand-yellow);height:4px}.category-tabs a[aria-current=location]{color:var(--brand-black)}.service-row strong{color:var(--brand-black)}.invitation{background:var(--brand-black)}.invitation .button{background:var(--brand-yellow);border-color:var(--brand-yellow);color:var(--brand-black)}.invitation .eyebrow{color:var(--brand-yellow)}.contact-location{color:var(--brand-red)}button:focus-visible,a:focus-visible,input:focus-visible,textarea:focus-visible{outline-color:var(--brand-red)}.header nav a:after{background:var(--brand-red)}.booking-options label:has(input:checked),.time-options label:has(input:checked){background:var(--surface-soft);border-color:var(--brand-red);color:var(--brand-black)}input[type=radio],input[type=checkbox]{accent-color:var(--brand-red)}.progress .current>span,.progress .complete>span{background:var(--brand-red);border-color:var(--brand-red)}.confirmation-symbol{color:var(--brand-red)}@media(max-width:760px){.header{gap:8px}.brand-logo{flex-basis:110px;width:110px;height:79px}.footer-logo{width:150px;height:106px}.header-book{font-size:8px;white-space:nowrap}.header-book span{margin-left:4px}.menu-toggle{font-size:9px}.hero h1{font-size:clamp(48px,14vw,74px);letter-spacing:-.06em}.hero-copy>p{width:78%}}@media(max-width:360px){.brand-logo{flex-basis:94px;width:94px;height:67px}.header{gap:5px}.header-book{font-size:7px}.menu-toggle{gap:2px;padding:8px 0}}@media(prefers-reduced-motion:reduce){*,*::before,*::after{scroll-behavior:auto!important;animation-duration:.01ms!important;transition-duration:.01ms!important}}
 
 .brand-logo img{display:block;width:100%;height:100%;object-fit:contain;object-position:center}
 
@@ -90,21 +90,21 @@ html{scroll-padding-top:var(--header-scroll-offset,115px)}
 
 /* Lords & Lady's signage palette */
 :root{
- --brand-charcoal:#26252b;
- --brand-purple:#725d7e;
- --brand-gold:#d6c261;
- --brand-purple-light:#92729c;
- --brand-purple-dark:#514158;
+ --brand-charcoal:#242228;
+ --brand-purple:#633078;
+ --brand-gold:#c5a047;
+ --brand-purple-light:#74428a;
+ --brand-purple-dark:#3f1d50;
  --surface-light:#f7f3ea;
- --surface-dark:#26252b;
+ --surface-dark:#242228;
  --text-light:#f7f3ea;
- --text-dark:#26252b;
+ --text-dark:#242228;
  --text-muted-light:#d1cbd0;
  --brand-yellow:var(--brand-gold);
  --brand-red:var(--brand-purple);
  --brand-black:var(--brand-charcoal);
  --surface:var(--surface-light);
- --surface-soft:#eee8f0;
+ --surface-soft:#efe7d6;
  --text-primary:var(--text-dark);
  --text-secondary:#625b62;
  --border:#e5ddd0;
@@ -119,7 +119,7 @@ html{scroll-padding-top:var(--header-scroll-offset,115px)}
 
 /* Dark, compact sticky brand header */
 .header{background:var(--brand-charcoal);border-bottom-color:rgba(247,243,234,.2);color:var(--text-light)}
-.header.is-scrolled{background:var(--brand-charcoal);border-bottom-color:rgba(214,194,97,.32);box-shadow:0 4px 14px rgba(20,17,23,.22)}
+.header.is-scrolled{background:var(--brand-charcoal);border-bottom-color:rgba(197,160,71,.36);box-shadow:0 4px 14px rgba(20,17,23,.22)}
 .header nav a{color:var(--text-light)}
 .header nav a:after{background:var(--brand-gold)}
 .header nav a:hover,.header nav a[aria-current="location"]{color:var(--brand-gold)}
@@ -143,17 +143,17 @@ html{scroll-padding-top:var(--header-scroll-offset,115px)}
 .text-link{border-color:var(--brand-purple)}
 
 /* Services and editorial sections */
-.services{background:#eee8f0}
-.category-navigation{background:#eee8f0;border-color:#ddd2e1}
-.category-tabs{border-color:#c8bdcc}
+.services{background:var(--surface-light)}
+.category-navigation{background:var(--surface-light);border-color:var(--border)}
+.category-tabs{border-color:#d8cfbe}
 .category-tabs a[aria-current="location"]{color:var(--brand-purple-dark)}
 .category-tabs a[aria-current="location"]:after{background:var(--brand-gold);height:4px}
 .service-list h3,.service-row strong{color:var(--brand-charcoal)}
 .service-book{color:var(--brand-purple);text-decoration-color:var(--brand-gold)}
-.service-photo figcaption{background:rgba(38,37,43,.78)}
+.service-photo figcaption{background:rgba(36,34,40,.82)}
 .story-copy h2,.section h2{color:var(--brand-purple-dark)}
 .gallery-expand{background:var(--brand-charcoal);color:var(--brand-gold)}
-.testimonials{background:#eee8f0;border-color:#ddd2e1}
+.testimonials{background:var(--surface-light);border-color:var(--border)}
 .testimonials h2,.testimonials blockquote{color:var(--brand-charcoal)}
 .testimonials .quote-mark,.testimonials .eyebrow{color:var(--brand-purple)}
 
@@ -188,8 +188,8 @@ footer{margin:0;background:var(--brand-charcoal);color:var(--text-light);border-
 footer>p,footer small{color:var(--text-muted-light)}
 footer>div a:hover{color:var(--brand-gold)}
 footer small:first-of-type{color:var(--brand-gold)}
-dialog{background:rgba(38,37,43,.97);color:var(--text-light)}
-dialog::backdrop{background:rgba(38,37,43,.9)}
+dialog{background:rgba(36,34,40,.97);color:var(--text-light)}
+dialog::backdrop{background:rgba(36,34,40,.9)}
 dialog button{color:var(--brand-gold)}
 button:focus-visible,a:focus-visible,input:focus-visible,textarea:focus-visible{outline-color:var(--brand-gold)}
 

diff --git a/Trial350k/booking-pdf.js b/Trial350k/booking-pdf.js
@@ -12,7 +12,7 @@ const TrialRequestPDF=(()=>{
   const doc=new jsPDF({orientation:'portrait',unit:'mm',format:'a4',compress:true,putOnlyUsedFonts:true});
   doc.addFileToVFS('NotoSans-Regular.ttf',font);doc.addFont('NotoSans-Regular.ttf','TrialSans','normal');
   doc.setProperties({title:'Lords & Lady\'s — Booking Request',subject:'Demo request pending confirmation; not a confirmed appointment',author:'Lords & Lady\'s',creator:'Lords & Lady\'s'});
-  const purple=[114,93,126],gold=[214,194,97],charcoal=[38,37,43],ink=[38,37,43],muted=[98,91,98],line=[229,221,208];
+  const purple=[99,48,120],gold=[197,160,71],charcoal=[36,34,40],ink=[36,34,40],muted=[98,91,98],line=[229,221,208];
   const left=20,width=170,bottom=271;let y=0;
   const text=(value,x,at,size=10,color=ink,fontName='TrialSans')=>{doc.setFont(fontName,'normal');doc.setFontSize(size);doc.setTextColor(...color);doc.text(clean(value),x,at)};
   const rule=at=>{doc.setDrawColor(...line);doc.setLineWidth(.25);doc.line(left,at,190,at)};
